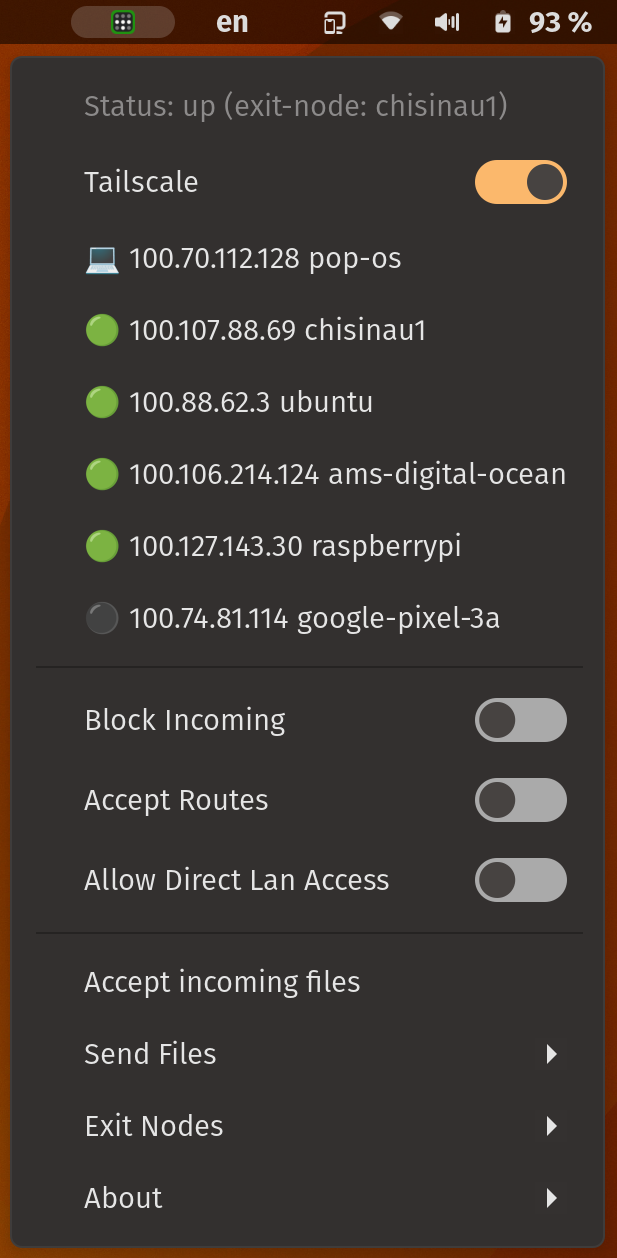
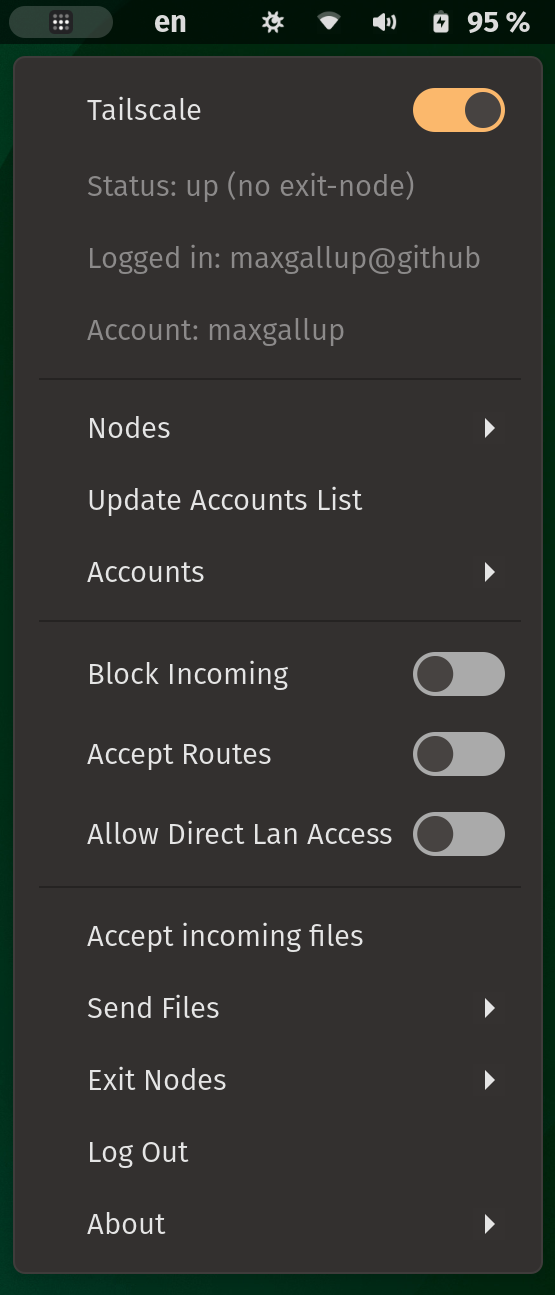
minor changes + updated screenshot

diff --git a/tailscale-status@maxgallup.github.com/extension.js b/tailscale-status@maxgallup.github.com/extension.js
@@ -44,7 +44,7 @@ class TailscaleNode {
 
 let nodes = [];
 let accounts = [];
-let currentAccount = "";
+let currentAccount = "(click Update Accounts List)";
 
 let nodesMenu;
 let accountButton;
@@ -311,8 +311,8 @@ function cmdTailscaleSwitchList(unprivileged  = true) {
                     accountsMenu.menu.removeAll()
                     accounts.forEach((account) => {
                         if (account.slice(-2) == " *") {
-                            currentAccount = account
                             account = account.slice(0, -2)
+                            currentAccount = account
                         }
                         let accountItem = new PopupMenu.PopupMenuItem(account)
                         accountItem.connect('activate', () => {
@@ -504,7 +504,7 @@ const TailscalePopup = GObject.registerClass(
             })
 
             // ------ UPDATE ACCOUNTS ------
-            accountButton = new PopupMenu.PopupMenuItem("Update Account list");
+            accountButton = new PopupMenu.PopupMenuItem("Update Accounts List");
             accountButton.connect('activate', (item) => {
                 cmdTailscaleSwitchList()
             })
